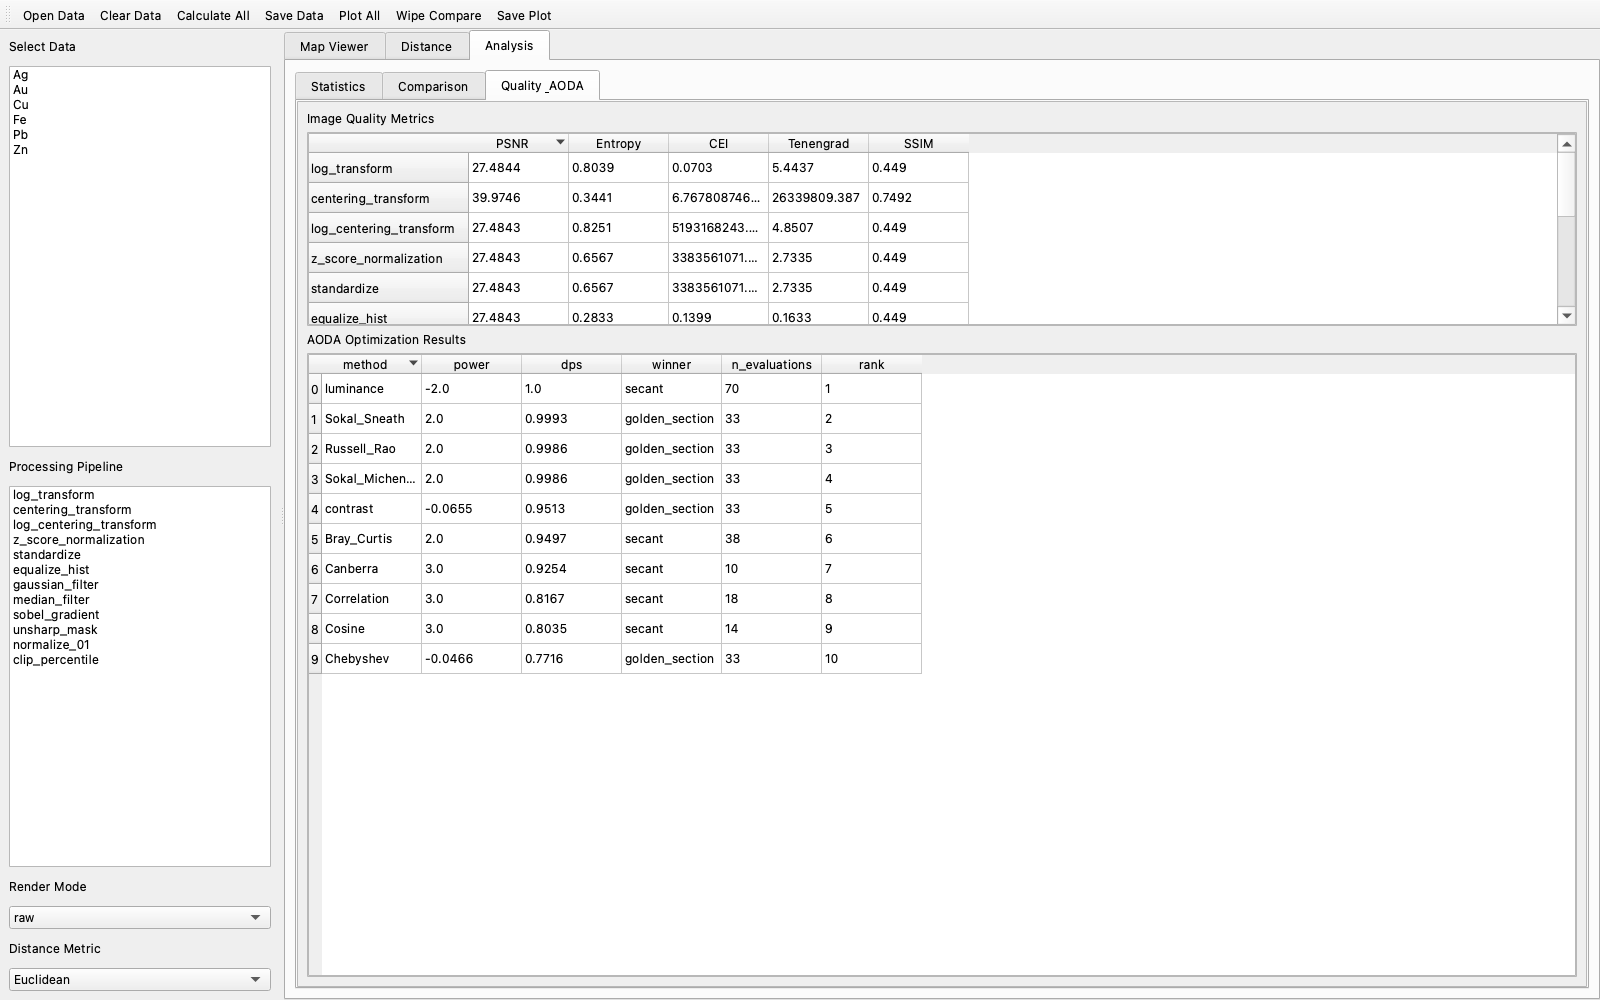
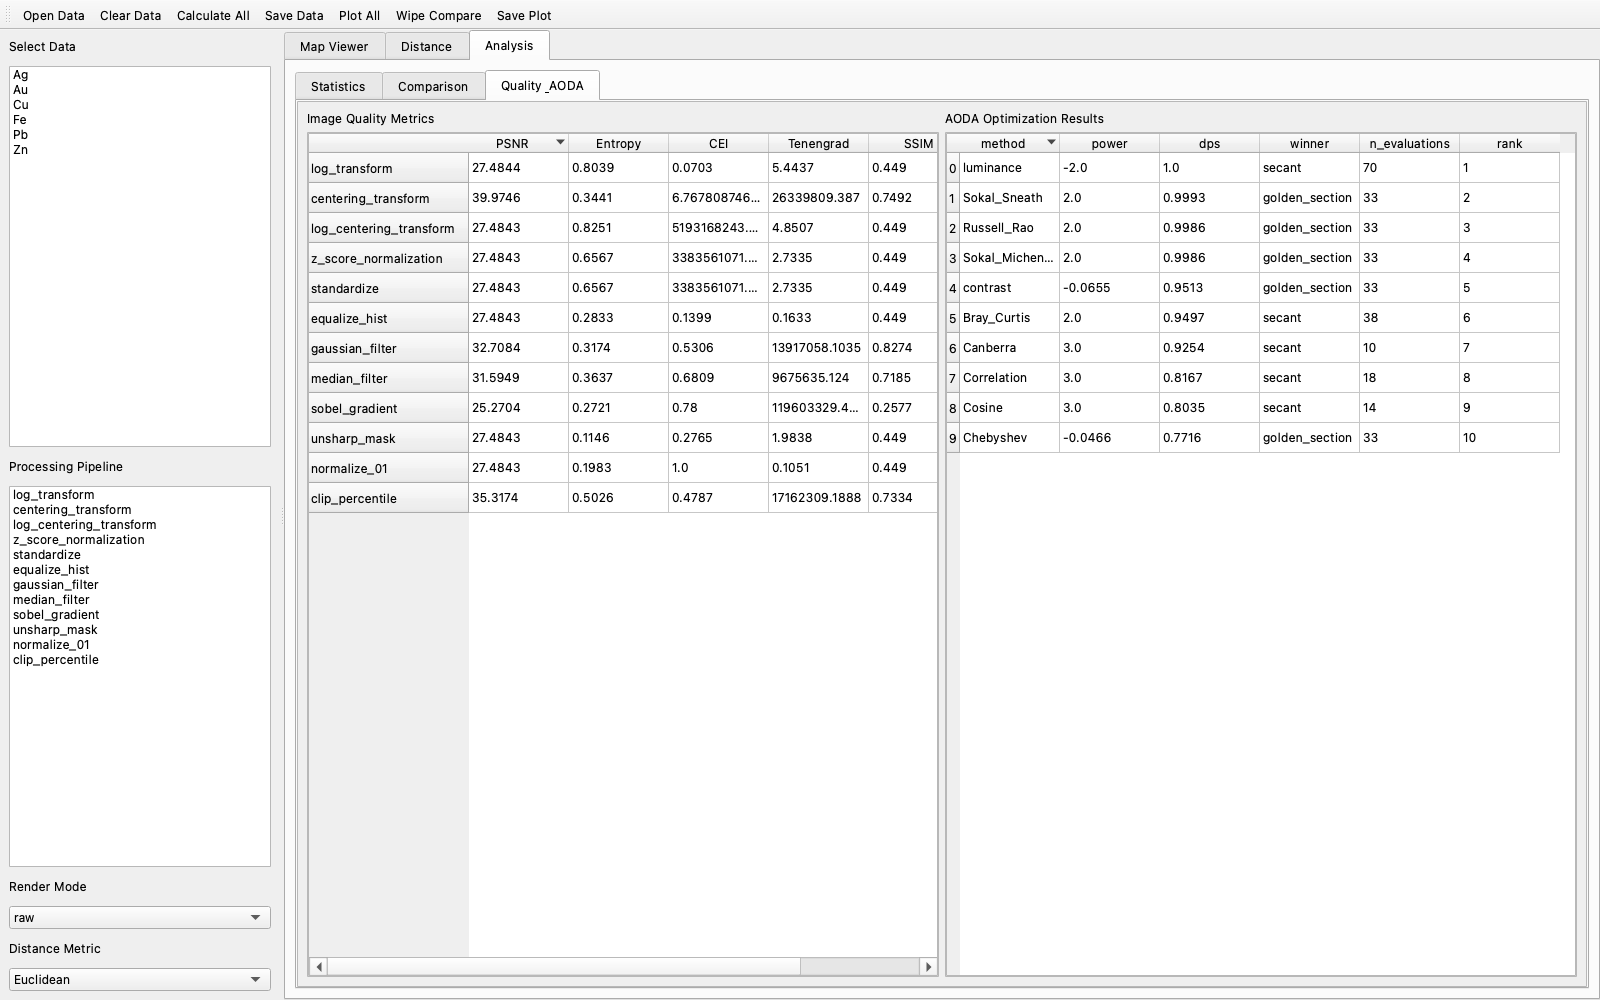
v1.3.2: Quality & AODA tables side-by-side (horizontal)

diff --git a/cpsvisualizer/generate_figures.py b/cpsvisualizer/generate_figures.py
@@ -215,9 +215,9 @@ def fig9_aoda_landscape(data_dict, elements):
     metric_short = [m.replace('mutual_info_', 'MI_').replace('_unflattern', '').replace('_flattern', '_f')
                     .replace('calculate_', '')[:14] for m in metrics]
 
-    fig, ax = plt.subplots(figsize=(18, 7))
+    fig, ax = plt.subplots(figsize=(20, 8))
     cmap = LinearSegmentedColormap.from_list('aoda', ['#f7fbff', '#2171b5'], N=256)
-    im = ax.imshow(heatmap, aspect='auto', cmap=cmap, vmin=0, vmax=1)
+    im = ax.imshow(heatmap, aspect='equal', cmap=cmap, vmin=0, vmax=1)
     ax.set_xticks(range(len(metrics)))
     ax.set_xticklabels(metric_short, rotation=90, fontsize=6)
     ax.set_yticks(range(len(pipelines)))
@@ -258,7 +258,7 @@ def fig10_pca_comparison(data_dict, elements):
     transformed = [pd.DataFrame(apply_transforms(df.values.copy(), pipe_names)) for df in dfs]
     dist_mat = compute_pairwise_matrix(transformed, elements, met_func)
 
-    fig, (ax1, ax2) = plt.subplots(1, 2, figsize=(14, 5.5))
+    fig, (ax1, ax2) = plt.subplots(1, 2, figsize=(12, 5.8))
 
     # Left: PCA scatter
     coords = pca_r['embedding']
@@ -272,9 +272,10 @@ def fig10_pca_comparison(data_dict, elements):
     ax1.set_ylabel(f'PC2 ({ev[1]*100:.1f}% variance)')
     ax1.set_title('PCA: Element Distribution Patterns', fontweight='bold')
     ax1.grid(True, alpha=0.2, linestyle='--')
+    ax1.set_aspect('equal')
 
     # Right: AODA optimal distance matrix heatmap
-    im2 = ax2.imshow(dist_mat.values, cmap='YlOrRd', aspect='auto')
+    im2 = ax2.imshow(dist_mat.values, cmap='YlOrRd', aspect='equal')
     ax2.set_xticks(range(len(elements)))
     ax2.set_yticks(range(len(elements)))
     ax2.set_xticklabels(elements, fontsize=9)
@@ -301,7 +302,7 @@ def fig11_tsne_comparison(data_dict, elements):
     tsne_r = compute_tsne_embedding(dfs, elements, perplexity=min(5, len(elements)-1), random_state=42)
     bench = compute_comprehensive_benchmark(dfs, elements, n_jobs=1)
 
-    fig, (ax1, ax2) = plt.subplots(1, 2, figsize=(14, 5.5))
+    fig, (ax1, ax2) = plt.subplots(1, 2, figsize=(12, 5.8))
 
     # t-SNE
     coords = tsne_r['embedding']
@@ -314,6 +315,7 @@ def fig11_tsne_comparison(data_dict, elements):
     ax1.set_ylabel('t-SNE Component 2')
     ax1.set_title(f't-SNE Embedding (KL={tsne_r.get("kl_divergence", 0):.3f})', fontweight='bold')
     ax1.grid(True, alpha=0.2, linestyle='--')
+    ax1.set_aspect('equal')
 
     # DPS comparison mini bar
     methods = ['AODA', 't-SNE', 'PCA', 'UMAP', 'Baseline']
@@ -349,7 +351,7 @@ def fig12_umap_comparison(data_dict, elements):
     bench = compute_comprehensive_benchmark(dfs, elements, n_jobs=1)
     aoda = bench['aoda']
 
-    fig, (ax1, ax2) = plt.subplots(1, 2, figsize=(14, 5.5))
+    fig, (ax1, ax2) = plt.subplots(1, 2, figsize=(12, 5.8))
 
     coords = umap_r['embedding']
     ax1.scatter(coords[:, 0], coords[:, 1], c=COLORS[5], s=200, alpha=0.85,
@@ -361,6 +363,7 @@ def fig12_umap_comparison(data_dict, elements):
     ax1.set_ylabel('UMAP Component 2')
     ax1.set_title('UMAP: Element Distribution Patterns', fontweight='bold')
     ax1.grid(True, alpha=0.2, linestyle='--')
+    ax1.set_aspect('equal')
 
     # Top-5 AODA pipelines
     top5 = aoda.head(5)
@@ -393,7 +396,7 @@ def fig13_clustering(data_dict, elements):
     hier = compute_hierarchical_clustering(dfs, elements)
     kmeans = compute_kmeans_clustering(dfs, elements, n_clusters=3)
 
-    fig, (ax1, ax2) = plt.subplots(1, 2, figsize=(14, 5.5))
+    fig, (ax1, ax2) = plt.subplots(1, 2, figsize=(12, 5.8))
 
     # Dendrogram
     Z = hier['linkage']

diff --git a/cpsvisualizer/src/cpsvisualizer/app.py b/cpsvisualizer/src/cpsvisualizer/app.py
@@ -556,26 +556,29 @@ class CPSVisualizer(QMainWindow):
 
     def _build_quality_aoda_pane(self, parent):
         sc, inner = self._scroll_pane()
-        v = QVBoxLayout(inner)
+        h = QHBoxLayout(inner)
 
-        # Image Quality table (top)
-        v.addWidget(QLabel('Image Quality Metrics'))
+        # Image Quality table (left)
+        qv = QVBoxLayout()
+        qv.addWidget(QLabel('Image Quality Metrics'))
         self._quality_table = CustomQTableView()
         self._quality_table.setModel(PandasModel())
         q_scroll = QScrollArea()
         q_scroll.setWidgetResizable(True)
         q_scroll.setWidget(self._quality_table)
-        q_scroll.setMaximumHeight(300)
-        v.addWidget(q_scroll)
+        qv.addWidget(q_scroll, 1)
+        h.addLayout(qv, 1)
 
-        # AODA table (bottom)
-        v.addWidget(QLabel('AODA Optimization Results'))
+        # AODA table (right)
+        av = QVBoxLayout()
+        av.addWidget(QLabel('AODA Optimization Results'))
         self._aoda_table = CustomQTableView()
         self._aoda_table.setModel(PandasModel())
         a_scroll = QScrollArea()
         a_scroll.setWidgetResizable(True)
         a_scroll.setWidget(self._aoda_table)
-        v.addWidget(a_scroll, 1)
+        av.addWidget(a_scroll, 1)
+        h.addLayout(av, 1)
 
         parent.addTab(sc, 'Quality & AODA')
 

diff --git a/cpsvisualizer/src/setup.py b/cpsvisualizer/src/setup.py
@@ -15,7 +15,7 @@ except Exception:
 
 setup(
     name='cpsvisualizer',
-    version='1.3.1',
+    version='1.3.2',
     description='CPS-Visualizer: Visualization, similarity measurement, and statistical analysis of LA-ICP-MS surface scan data.',
     long_description=README,
     long_description_content_type='text/markdown',
